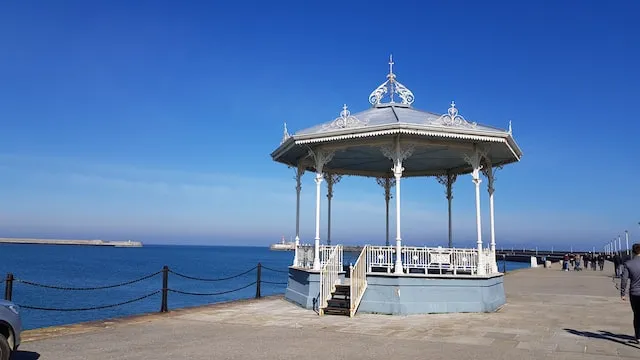
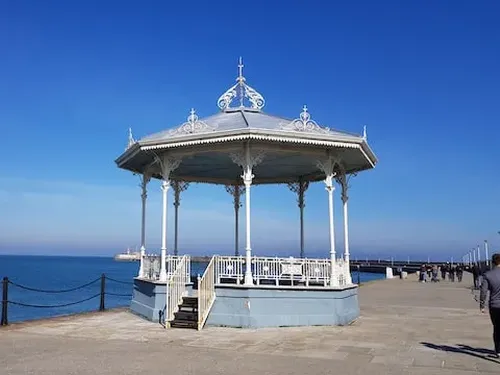
resized apres images to same size for more even look to section

diff --git a/assets/css/style.css b/assets/css/style.css
@@ -213,12 +213,15 @@ hr {
     clear: both;
     line-height: 0;
     column-count: 3;
+
     column-gap: 0;
     color: ivory;
 }
 
 .apres-photo-container {
     padding-bottom: 15px;
+    width: 100%;
+    height: 33%;
     text-align: Center;
     color: ivory;
     display: inline-block;
@@ -446,7 +449,7 @@ footer {
     }
 
     .apres-container {
-        columns: 2;
+        columns: 3;
     }
 
 
@@ -503,6 +506,10 @@ footer {
     .image-outer img {
         width: 300px;
         height: 300px;
+    }
+
+    .apres-container {
+        columns: 2;
     }
 }
 

diff --git a/README.md b/README.md
@@ -150,6 +150,8 @@ Aim is to create a theme that is consistent with the Sea and nature and promotes
 
 * ### User testing
 
+    Asked 10 people (friends and colleagues)
+
 
 * ### Responsive design
 * ### Bugs found a fixed
@@ -159,12 +161,14 @@ Aim is to create a theme that is consistent with the Sea and nature and promotes
         Solved by adding a container around images and adding padding bottom to image and container.
     3. Container border around circular image became eliptical at certain points when screen was narrowed for smaller devices.
         Solved by using media queries to give images and container defined, small width and height at smaller screen sizes.
+    4. Text on Aprés image titles was bleeding over itself onsmall screen formats. Found during user testing.
+        Solved by using media query to switch gallery to single column, 100% width on small screens.
     
 * ### Code andCSS validators
 * ### Testing User Stories from User Experience (UX) Section
 
 * ### Bugs found a not fixed yet
-    1. Tidal script on about page doesn't format correctly at small screen sides.  Don't know how to style a called JS yet.
+    1. Tidal script on about page doesn't format text color correctly.  Don't know how to style a called JS yet.
 
 ## Deployment
 
@@ -196,4 +200,5 @@ Aim is to create a theme that is consistent with the Sea and nature and promotes
 ### Acknowledgements
     
     Mentor
+    Cohort Facilitator - Special credit to Alan Bushell who gave great support and tips when testing the website.
     Tech Support
